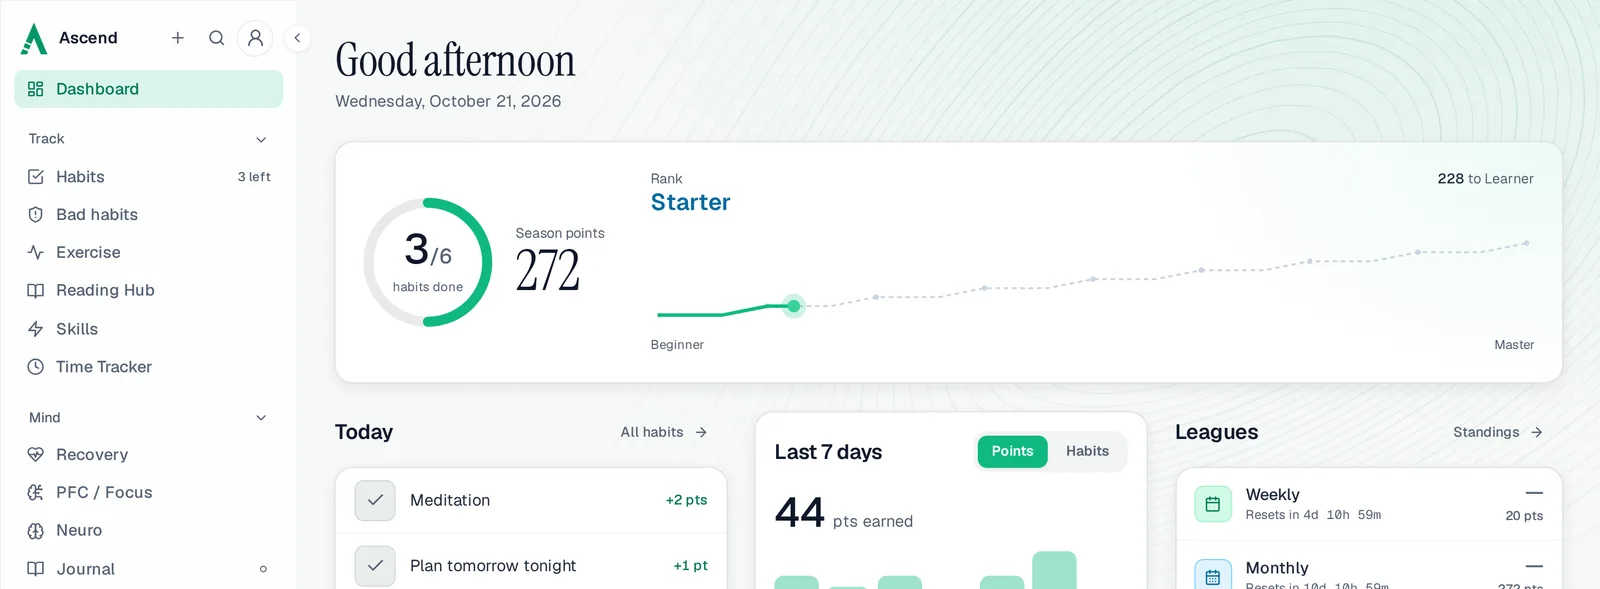
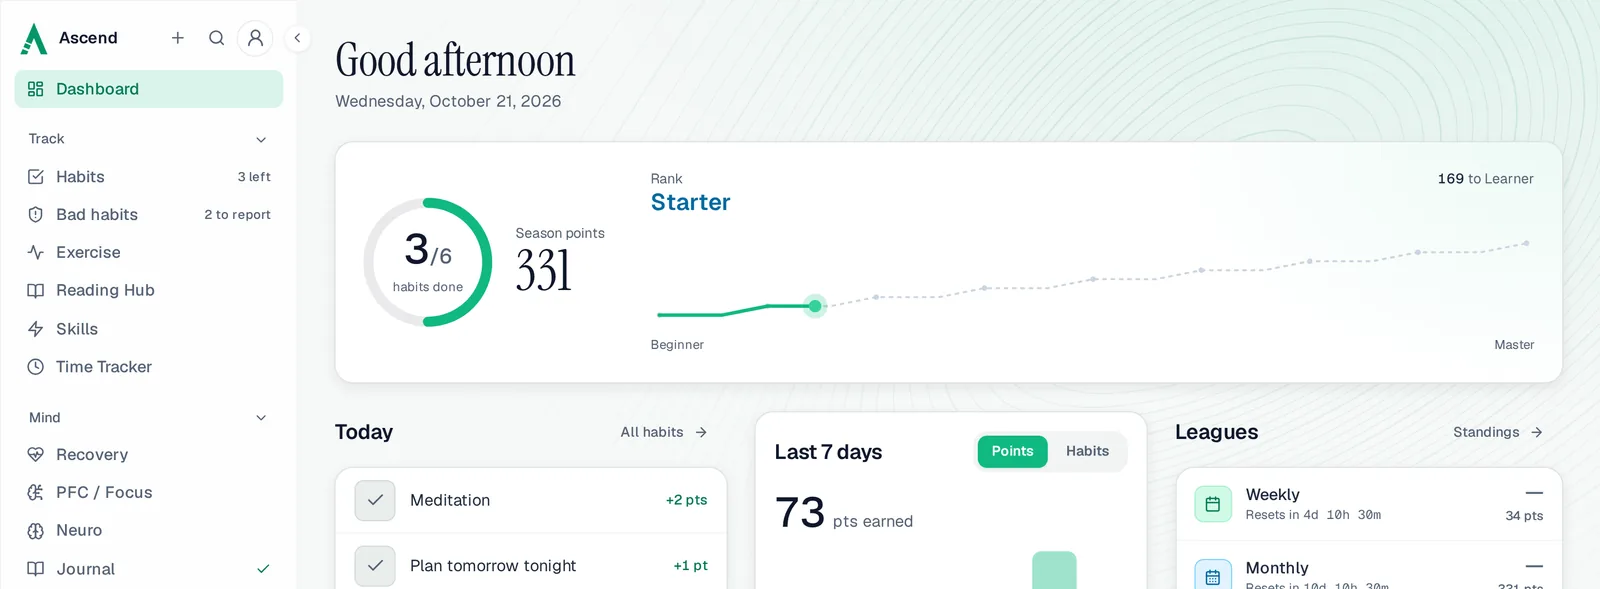
Landing screenshots: demo user Ali, ranks crop without the sidebar edge
Dashboard and Ranks screenshots re-captured from local demo data (fictional user Ali, no real data);
alt text follows the new capture (331 season points, Starter 43% to Learner); Ranks image 1400x885.

diff --git a/src/marketing/pages/Landing.tsx b/src/marketing/pages/Landing.tsx
@@ -248,7 +248,7 @@ function Hero() {
           eager
           width={540}
           height={886}
-          alt="The Ascend dashboard on a phone: 3 of 6 habits done today, 272 season points and the Starter rank"
+          alt="The Ascend dashboard on a phone: 3 of 6 habits done today, 331 season points and the Starter rank"
           className="mx-auto w-full max-w-[280px] rounded-[1.75rem] border-4 border-bg-700 sm:hidden"
         />
         <Screenshot
@@ -257,7 +257,7 @@ function Hero() {
           width={1600}
           height={589}
           className="hidden sm:block"
-          alt="The Ascend dashboard on a computer: 3 of 6 habits done today, 272 season points, the Starter rank and the climb from Beginner to Master"
+          alt="The Ascend dashboard on a computer: 3 of 6 habits done today, 331 season points, the Starter rank and the climb from Beginner to Master"
         />
         <Screenshot
           name="dashboard-phone"
@@ -450,8 +450,8 @@ function PointsRanksLeagues() {
         <Screenshot
           name="ranks-desktop"
           width={1400}
-          height={853}
-          alt="The Ranks page in Ascend: Starter rank at 24% of the way to Learner, the season countdown, all nine ranks with the points they need, and recent points"
+          height={885}
+          alt="The Ranks page in Ascend: Starter rank at 43% of the way to Learner, the season countdown, all nine ranks with the points they need, and recent points"
         />
       </div>
     </Section>
